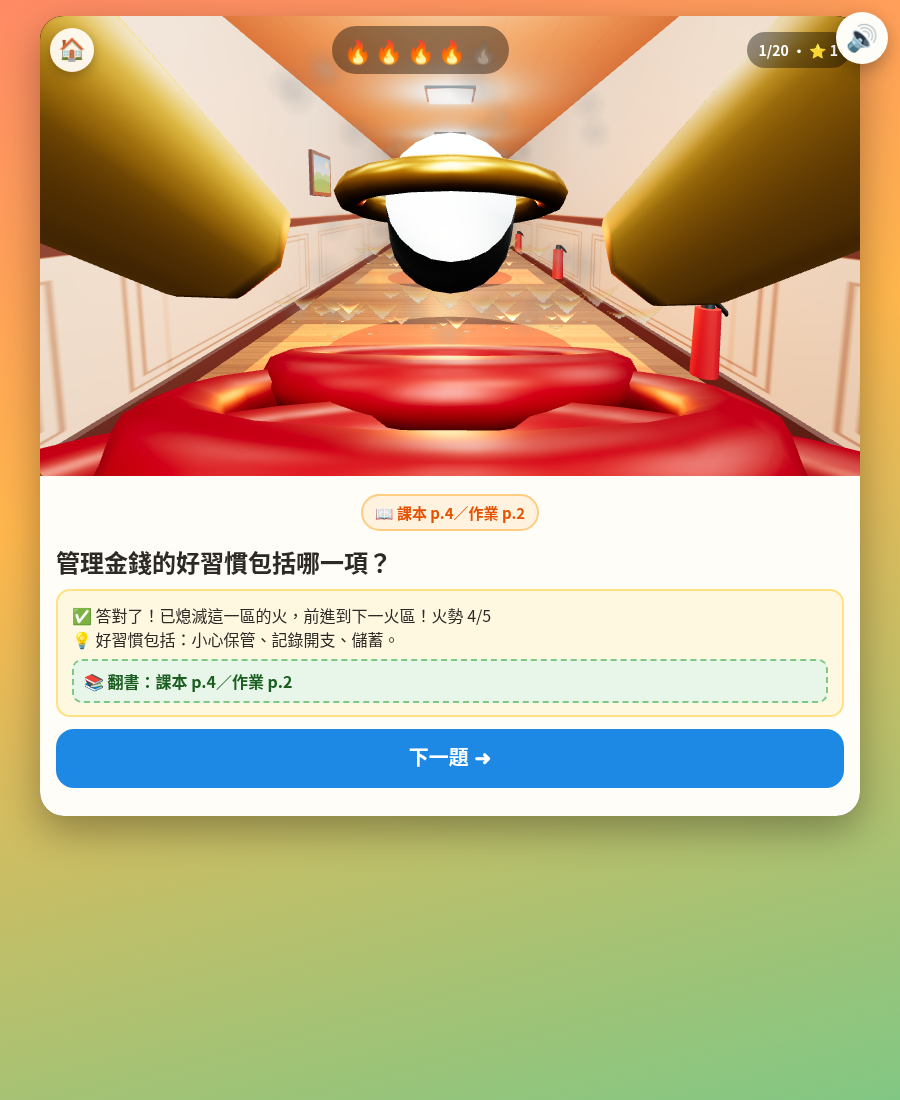
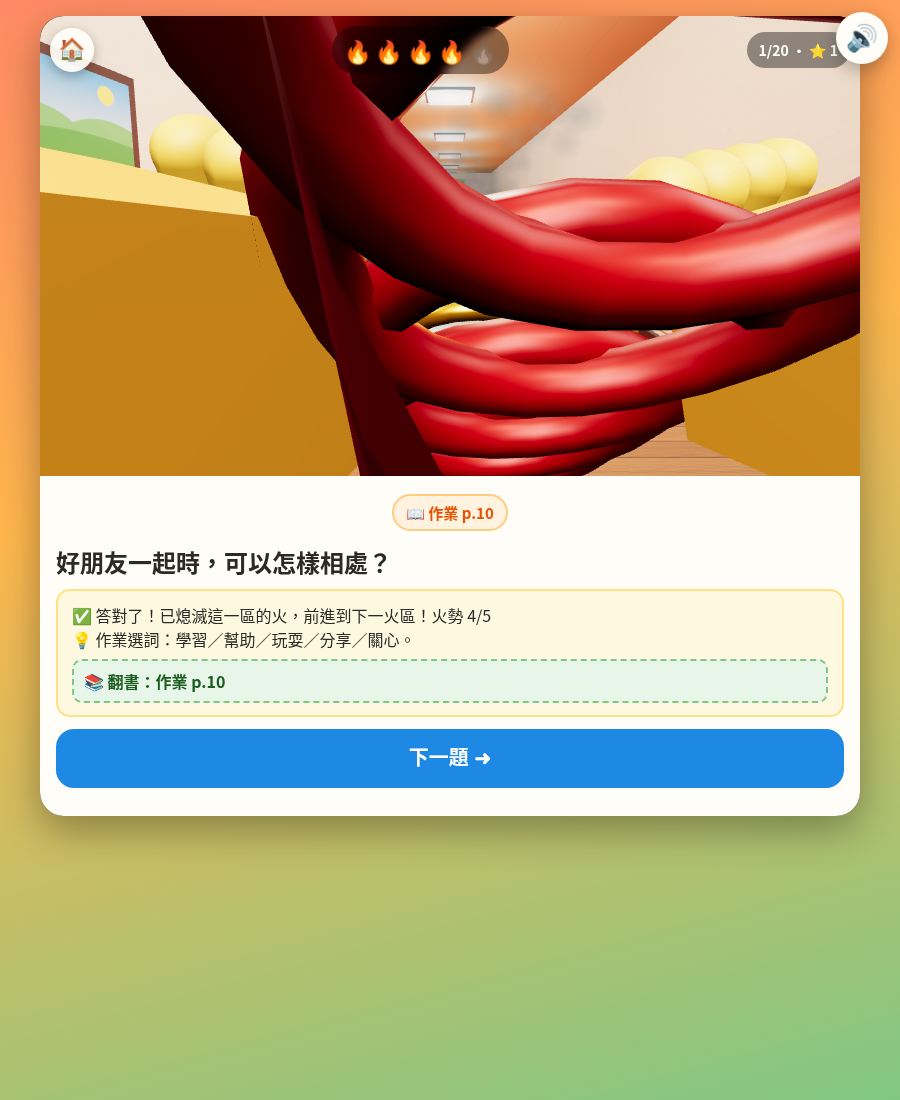
Tilt FPS hose viewmodel; refresh spray/walk previews

diff --git a/js/fire3d.js b/js/fire3d.js
@@ -508,8 +508,10 @@ function buildZone(i) {
 function buildHose() {
   hoseGroup = new THREE.Group();
   camera.add(hoseGroup);
-  hoseGroup.position.set(0, -0.2, -0.4);
-  hoseGroup.scale.setScalar(1.6);
+  // Lower + tip pitched up so players see hose body + nozzle from above (not barrel-on circle)
+  hoseGroup.position.set(0.05, -0.32, -0.45);
+  hoseGroup.rotation.set(-0.55, 0.08, 0.05);
+  hoseGroup.scale.setScalar(1.45);
 
   const hoseMap = rubberHoseTex();
   const hoseMat = new THREE.MeshStandardMaterial({
@@ -556,7 +558,7 @@ function buildHose() {
     })
   );
   jetMesh.rotation.x = Math.PI / 2.05;
-  jetMesh.position.set(0, 0.28, -0.95);
+  jetMesh.position.set(0, 0.35, -1.05);
   jetMesh.visible = false;
   hoseGroup.add(jetMesh);
 
@@ -764,9 +766,9 @@ function tick(dt) {
   const t = clock.elapsedTime;
 
   if (hoseGroup) {
-    hoseGroup.rotation.x = Math.sin(t * 1.7) * 0.025 + hoseKick;
-    hoseGroup.rotation.z = Math.sin(t * 1.2) * 0.018;
-    hoseGroup.position.y = -0.2 + Math.sin(t * 2.3) * 0.01;
+    hoseGroup.rotation.x = -0.55 + Math.sin(t * 1.7) * 0.02 + hoseKick;
+    hoseGroup.rotation.z = 0.05 + Math.sin(t * 1.2) * 0.015;
+    hoseGroup.position.y = -0.32 + Math.sin(t * 2.3) * 0.01;
     if (walking) {
       hoseGroup.rotation.x += Math.sin(t * 14) * 0.015;
       hoseGroup.position.y += Math.abs(Math.sin(walkT / walkDur * Math.PI)) * 0.02;
